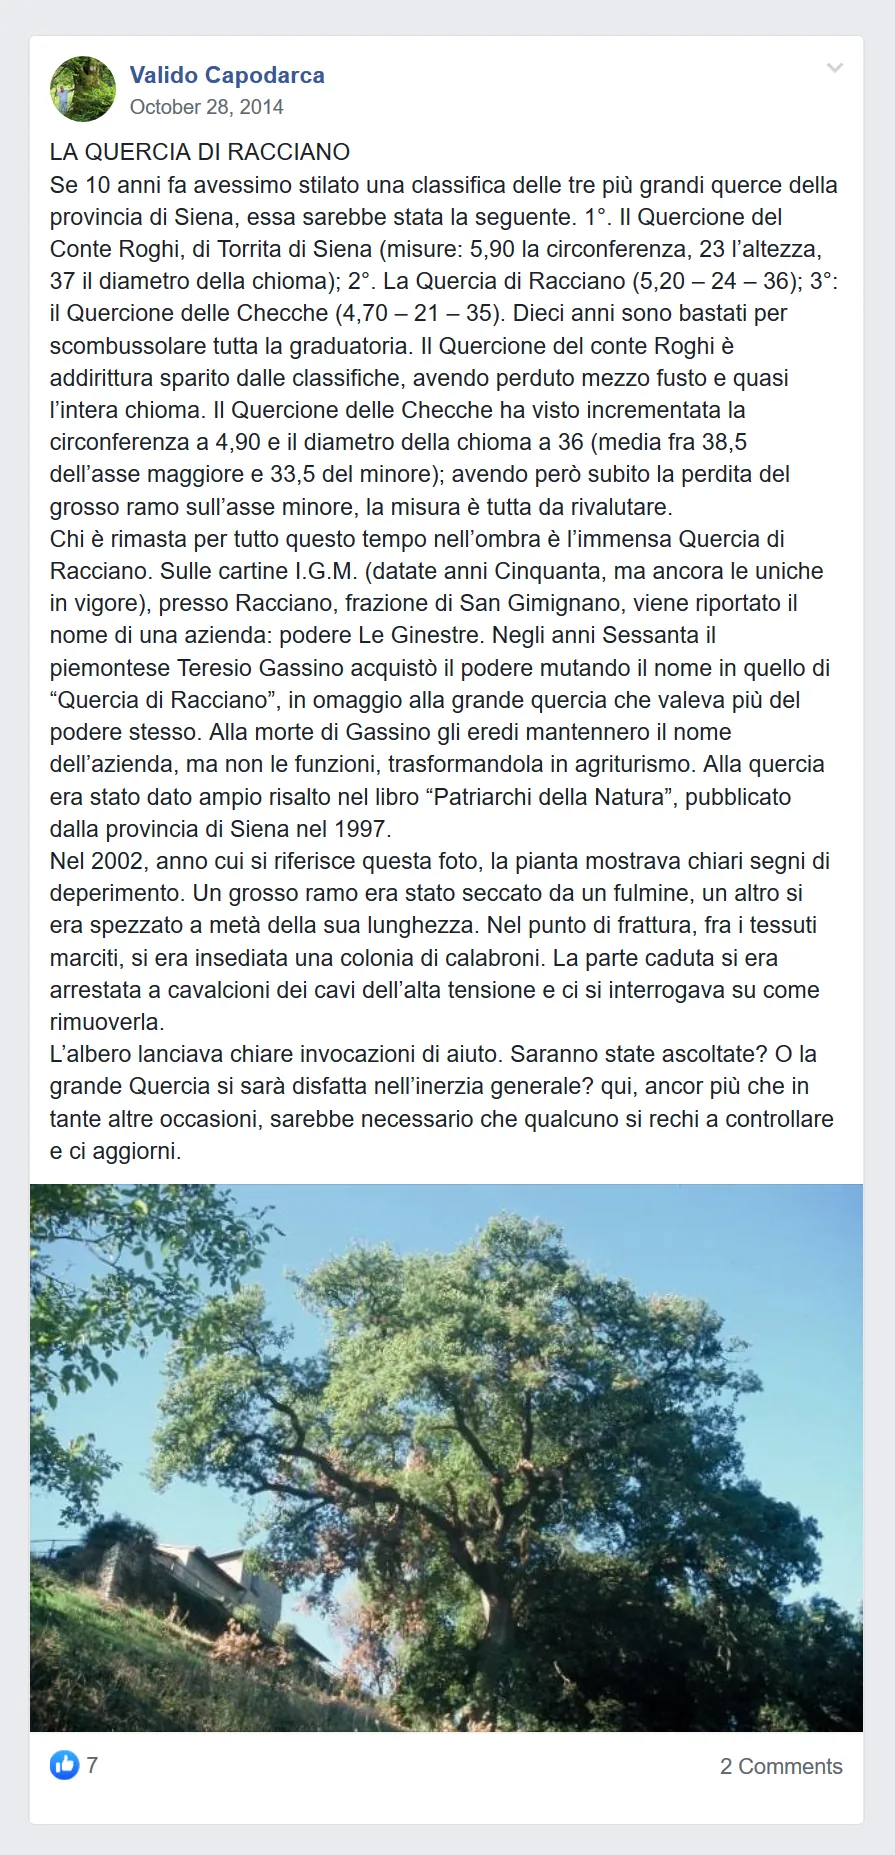
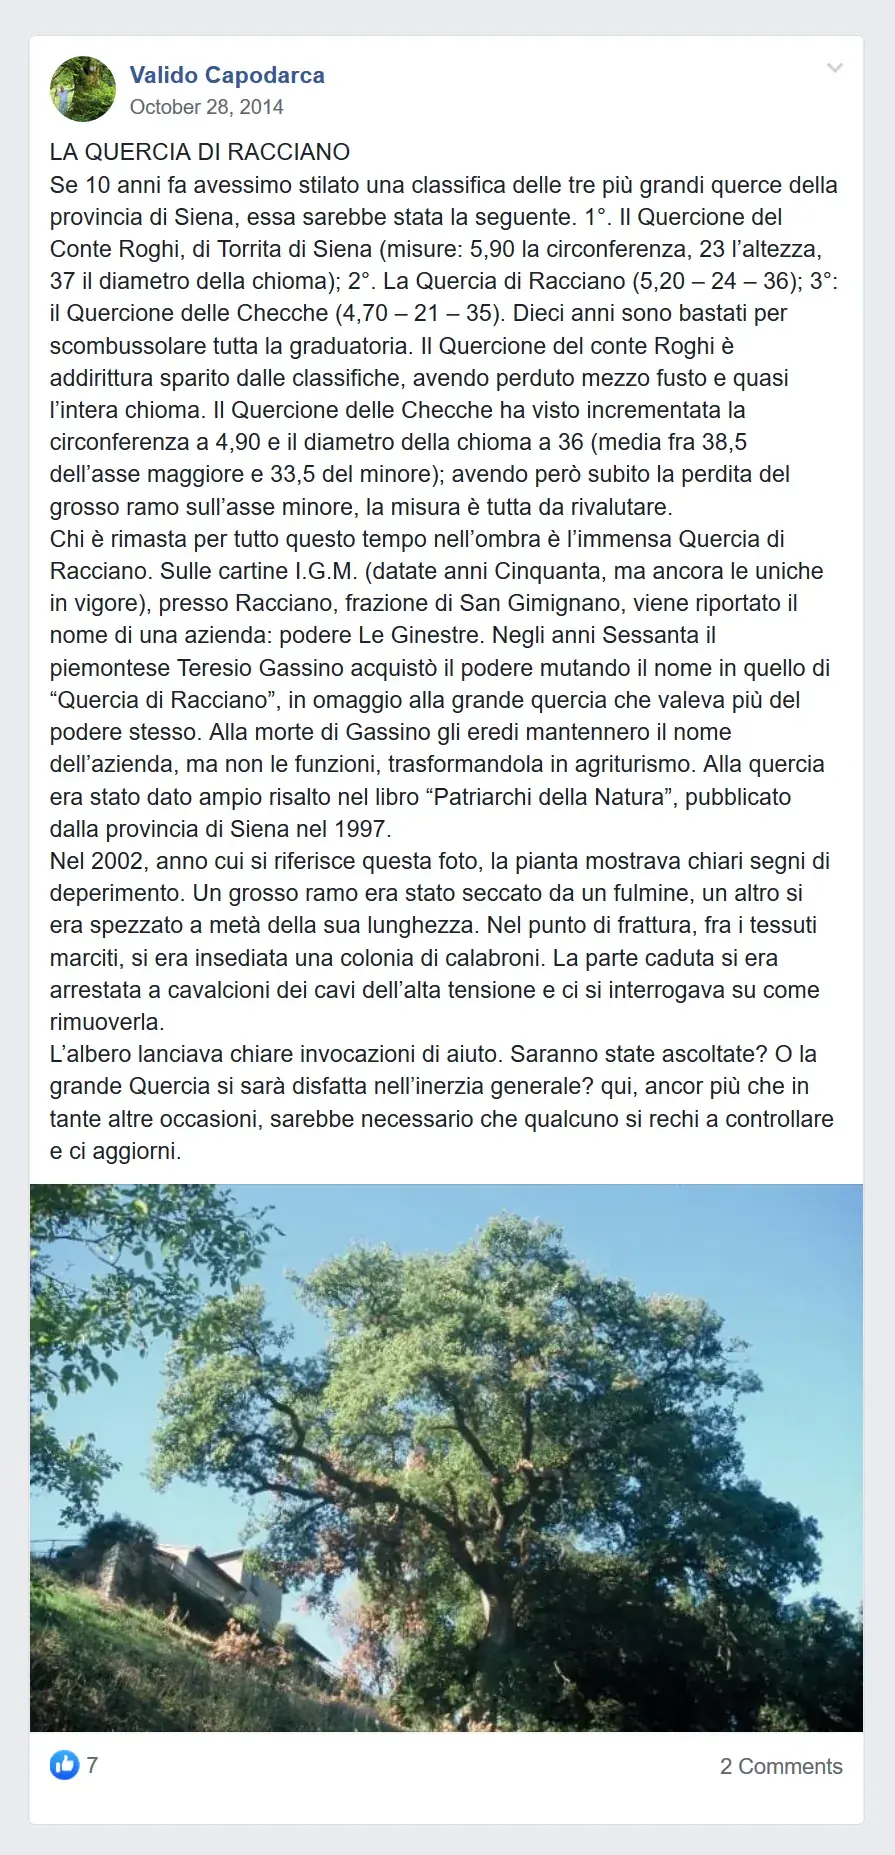
Add files via upload

diff --git a/css/style.css b/css/style.css
@@ -1115,7 +1115,8 @@ body.page-galleria main {
    ritagli-band's own right edge — three equal 32px gaps in total
    (outer-left, between the cards, outer-right), computed against
    712px (main's typical full-width content column: 760 − 48
-   padding): two 340×239 cards (296×195 photo + 22px padding on every
+   padding): two 340×244 cards (281×185 photo + 29.33px padding —
+   22px × 4/3 — on every
    side — equal to .ritagli-band's own text padding, not doubled
    anymore) plus three 32px gaps sum to exactly that, landing the pair
    symmetrically on their own by construction (see the inline --tx
@@ -1138,11 +1139,11 @@ body.page-galleria main {
 /* unlike discorso's stage, this one isn't bled past main's own padding
    via a negative margin — asked to keep any overflow bounded by
    ritagli-band's own side margins rather than widening the stage past
-   them. 246px: exactly the card's own height, no internal slack —
+   them. 244px: exactly the card's own height, no internal slack —
    see this block's opening comment for why that matters here. */
 @media (min-width: 641px) {
   body.page-quercia .clump-stage {
-    height: 246px;
+    height: 244px;
     width: 100%;
     margin: 0 0 32px;
   }
@@ -1186,7 +1187,7 @@ body.page-quercia .clump-photo:last-child {
    right edge of the viewport — the actual overflow reported back
    then. 340×239 is the CARD size — padding included, not just the
    photo — see this block's own opening comment for the three-equal-
-   gaps math this comes from (296×195 photo + 22px padding on every
+   gaps math this comes from (281×185 photo + 29.33px padding on every
    side = 340×239 card). Because this sizing (and the padding/
    background/blur right below, which is what makes each card look
    like a small ritagli-band) is on .clump-photo itself — the element
@@ -1195,9 +1196,10 @@ body.page-quercia .clump-photo:last-child {
 @media (min-width: 641px) {
   body.page-quercia .clump-photo {
     width: 340px;
-    height: 246px;
-    /* 3/2 of .ritagli-band's own 22px text padding (33px) */
-    padding: 33px;
+    height: 244px;
+    /* 4/3 of .ritagli-band's own 22px text padding (≈29.33px) —
+       lowered from an earlier 3/2 */
+    padding: calc(22px * 4 / 3);
     /* same values as .ritagli-band, not the same rule — "identical in
        appearance," as asked, not necessarily identical code */
     background: rgba(255, 255, 255, 0.25);
@@ -1245,7 +1247,7 @@ body.page-quercia .clump-badge {
    gives quercia's photos the right portrait treatment for free — same
    static/no-animation reset discorso's own six photos get. This adds
    the same ritagli-styled frame the desktop cards get above (padding
-   at 3/2 of .ritagli-band's own 22px text padding, so 33px, same
+   at 4/3 of .ritagli-band's own 22px text padding (≈29.33px), same
    background/blur/radius) — missing here before, added now — and
    swaps the generic 14/9 aspect-ratio for these two photos' real one
    (630×415), so the mobile crop matches the desktop object-fit:cover
@@ -1258,7 +1260,7 @@ body.page-quercia .clump-badge {
 @media (max-width: 640px) {
   body.page-quercia .clump-photo {
     aspect-ratio: 630 / 415;
-    padding: 33px;
+    padding: calc(22px * 4 / 3);
     background: rgba(255, 255, 255, 0.25);
     backdrop-filter: blur(10px);
     -webkit-backdrop-filter: blur(10px);
@@ -1834,6 +1836,7 @@ footer .cc-logo {
 }
 
 .doc-viewer-scroll {
+  position: relative;
   flex: 1;
   overflow: auto;
   -webkit-overflow-scrolling: touch;
@@ -1869,6 +1872,36 @@ footer .cc-logo {
   max-width: 100vw;
   height: auto;
   margin: auto; /* centers a document narrower than the cap in both axes; one AT the cap just fills it edge to edge */
+  /* fades in once loaded (see initDocViewer()'s open()) instead of
+     popping in abruptly once the file finally arrives */
+  transition: opacity 0.25s ease;
+}
+
+/* shown while the real image is still loading — see initDocViewer()'s
+   open(), which toggles this class and hides the img itself (no
+   intrinsic size yet) until 'load' fires. Without this, the img with
+   no width/height rendered the browser's own tiny default broken-
+   image placeholder, centered by margin:auto above — the "dot at
+   screen center" reported during the load gap on the larger
+   full-resolution scans this dialog often opens. */
+.doc-viewer-loading::after {
+  content: "";
+  position: absolute;
+  top: 50%;
+  left: 50%;
+  width: 32px;
+  height: 32px;
+  margin: -16px 0 0 -16px;
+  border: 3px solid rgba(255, 255, 255, 0.25);
+  border-top-color: #eee;
+  border-radius: 50%;
+  animation: docViewerSpin 0.8s linear infinite;
+}
+
+@keyframes docViewerSpin {
+  to {
+    transform: rotate(360deg);
+  }
 }
 
 /* the exception: a LANDSCAPE-shaped scan (diploma-cfm) capped by

diff --git a/quercia.html b/quercia.html
@@ -64,13 +64,13 @@
 
   <div class="clump-stage">
     <div class="clump-anchor">
-      <div class="clump-photo" style="--fx:-900px; --fy:-123px; --tx:-356px; --ty:-123px; --delay:0.05s;">
+      <div class="clump-photo" style="--fx:-900px; --fy:-122px; --tx:-356px; --ty:-122px; --delay:0.05s;">
         <a href="images/quercia/quercia-racciano-1.webp" target="_blank" rel="noopener" class="doc-viewer-trigger" data-doc-src="images/quercia/quercia-racciano-1.webp" data-doc-alt="Post Facebook di Valido Capodarca, 28 ottobre 2014, «La Quercia di Racciano»" data-text-target="text-quercia-1">
           <img src="images/quercia/quercia-1-clump.webp" width="630" height="415" alt="La Quercia di Racciano con la chioma verde, ripresa dal basso accanto a un edificio in pietra">
         <span class="clump-badge">La Quercia nel 2002.</span>
         </a>
       </div>
-      <div class="clump-photo" style="--fx:900px; --fy:-123px; --tx:16px; --ty:-123px; --delay:0.2s;">
+      <div class="clump-photo" style="--fx:900px; --fy:-122px; --tx:16px; --ty:-122px; --delay:0.2s;">
         <a href="images/quercia/quercia-racciano-2.webp" target="_blank" rel="noopener" class="doc-viewer-trigger" data-doc-src="images/quercia/quercia-racciano-2.webp" data-doc-alt="Post Facebook di Valido Capodarca, 7 gennaio, «La scomparsa della Quercia di Racciano»" data-text-target="text-quercia-2">
           <img src="images/quercia/quercia-2-clump.webp" width="630" height="415" alt="La Quercia di Racciano spoglia in inverno, i rami visti dal basso contro il cielo">
         <span class="clump-badge">Gli ultimi rami secchi.</span>

diff --git a/js/animations.js b/js/animations.js
@@ -456,6 +456,18 @@ function initDocViewer() {
   const open = (trigger) => {
     const src = trigger.dataset.docSrc;
     if (!src) return;
+    // hidden until 'load' fires — without this, the browser renders
+    // its own tiny default placeholder (no intrinsic size is known
+    // yet) centered by margin:auto, which is exactly the stray dot
+    // reported at screen center during the load gap. scrollWrap gets
+    // a loading class instead, for a visible "it's working" cue on
+    // the large full-resolution files this dialog often loads.
+    img.style.opacity = "0";
+    scrollWrap.classList.add("doc-viewer-loading");
+    img.onload = () => {
+      img.style.opacity = "";
+      scrollWrap.classList.remove("doc-viewer-loading");
+    };
     img.src = src;
     img.alt = trigger.dataset.docAlt || "";
     img.classList.toggle("doc-fit-height", trigger.dataset.docFit === "height");
@@ -506,6 +518,8 @@ function initDocViewer() {
   overlay.addEventListener("close", () => {
     document.body.classList.remove("body-scroll-locked");
     img.src = BLANK_SRC;
+    img.style.opacity = "";
+    scrollWrap.classList.remove("doc-viewer-loading");
     textPanel.innerHTML = "";
     activeTemplateId = null;
     window.getSelection()?.removeAllRanges(); // this dialog has actual selectable text (the transcript) — a stray selection surviving close, confirmed by report as the real cause of the reported line, not the tap-highlight tried last round
